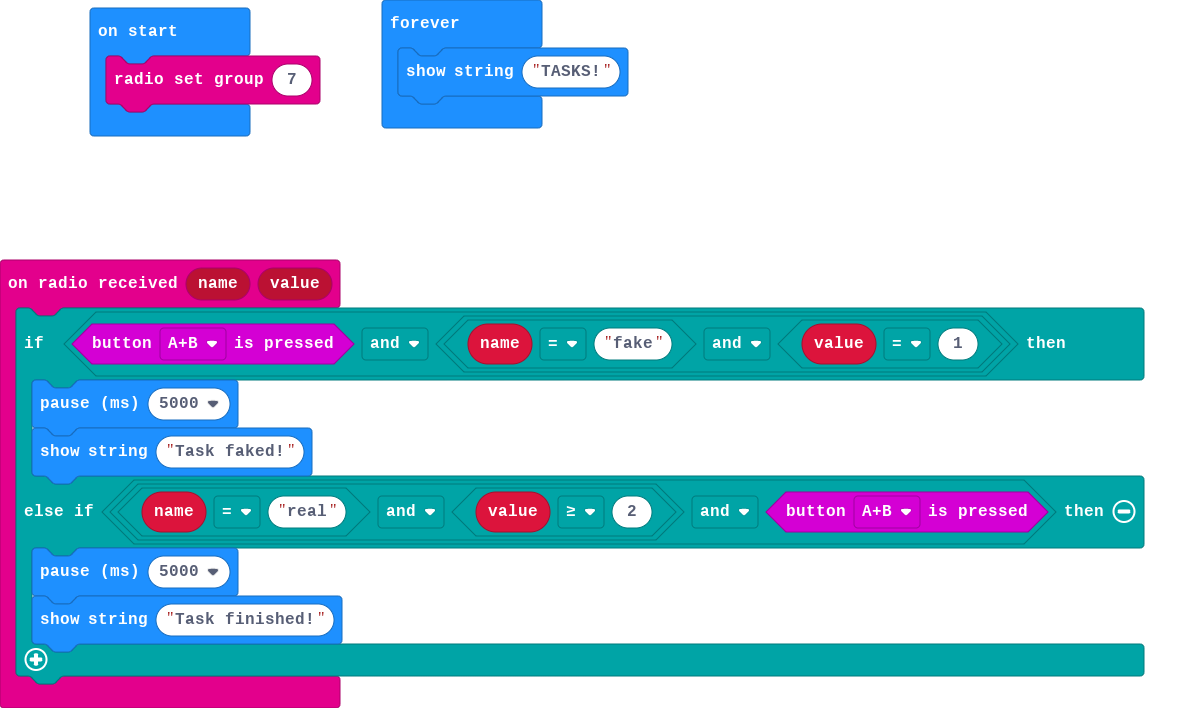
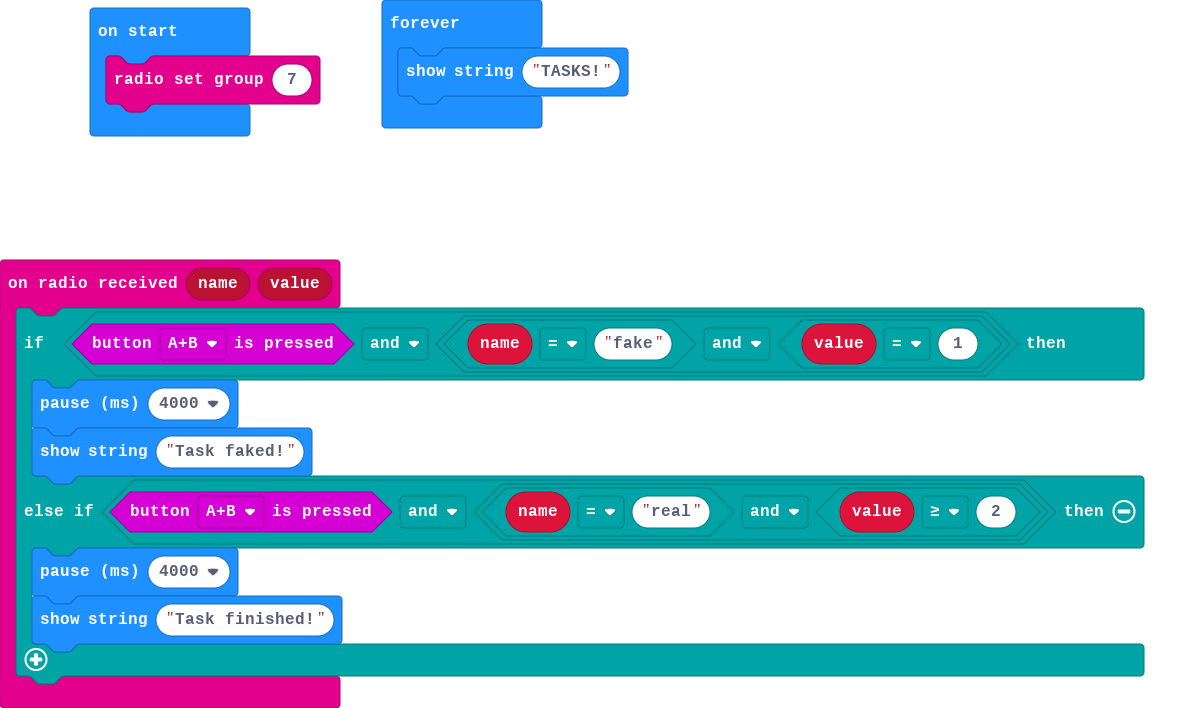
Update main.blocks, main.ts

Changed region(s): [[0.0928, 0.6836, 0.8972, 0.7768]]

diff --git a/main.ts b/main.ts
@@ -1,9 +1,9 @@
 radio.onReceivedValue(function (name, value) {
     if (input.buttonIsPressed(Button.AB) && (name == "fake" && value == 1)) {
-        basic.pause(5000)
+        basic.pause(4000)
         basic.showString("Task faked!")
-    } else if (name == "real" && value >= 2 && input.buttonIsPressed(Button.AB)) {
-        basic.pause(5000)
+    } else if (input.buttonIsPressed(Button.AB) && (name == "real" && value >= 2)) {
+        basic.pause(4000)
         basic.showString("Task finished!")
     }
 })
